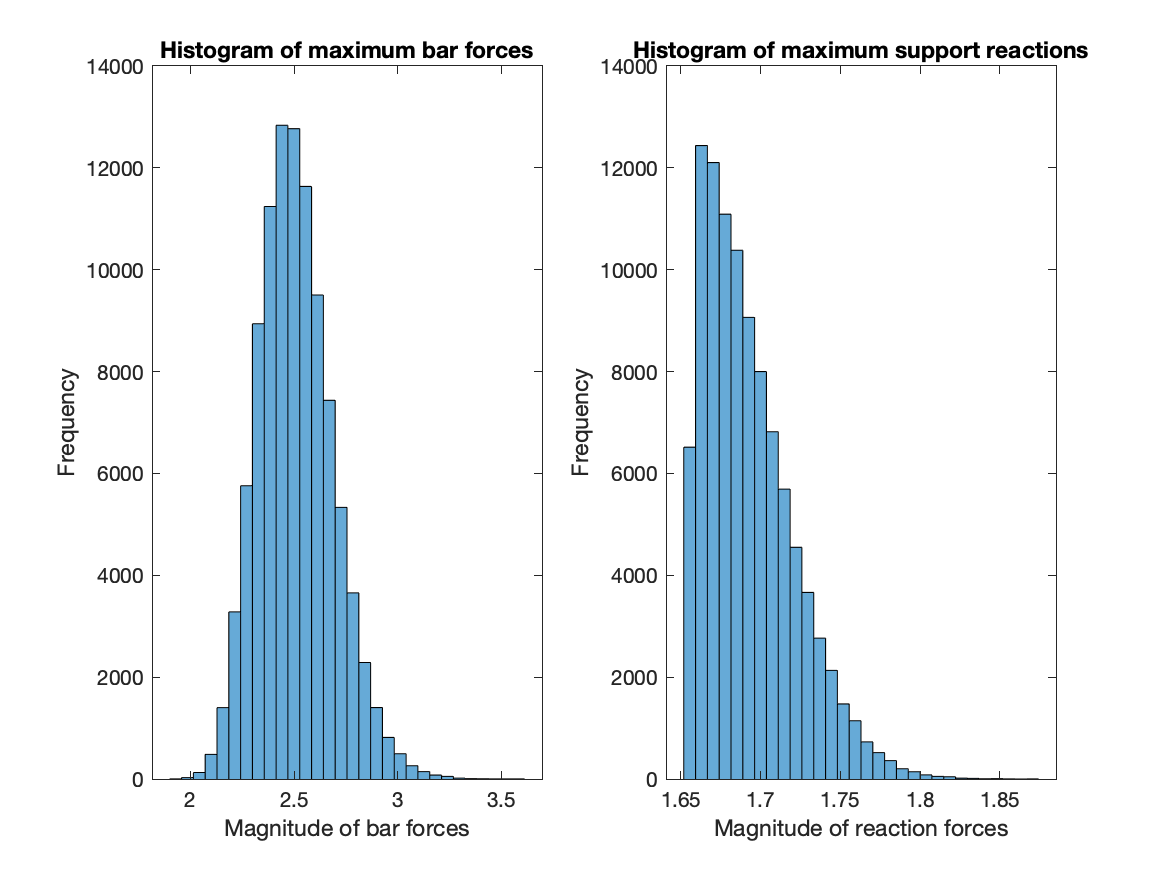
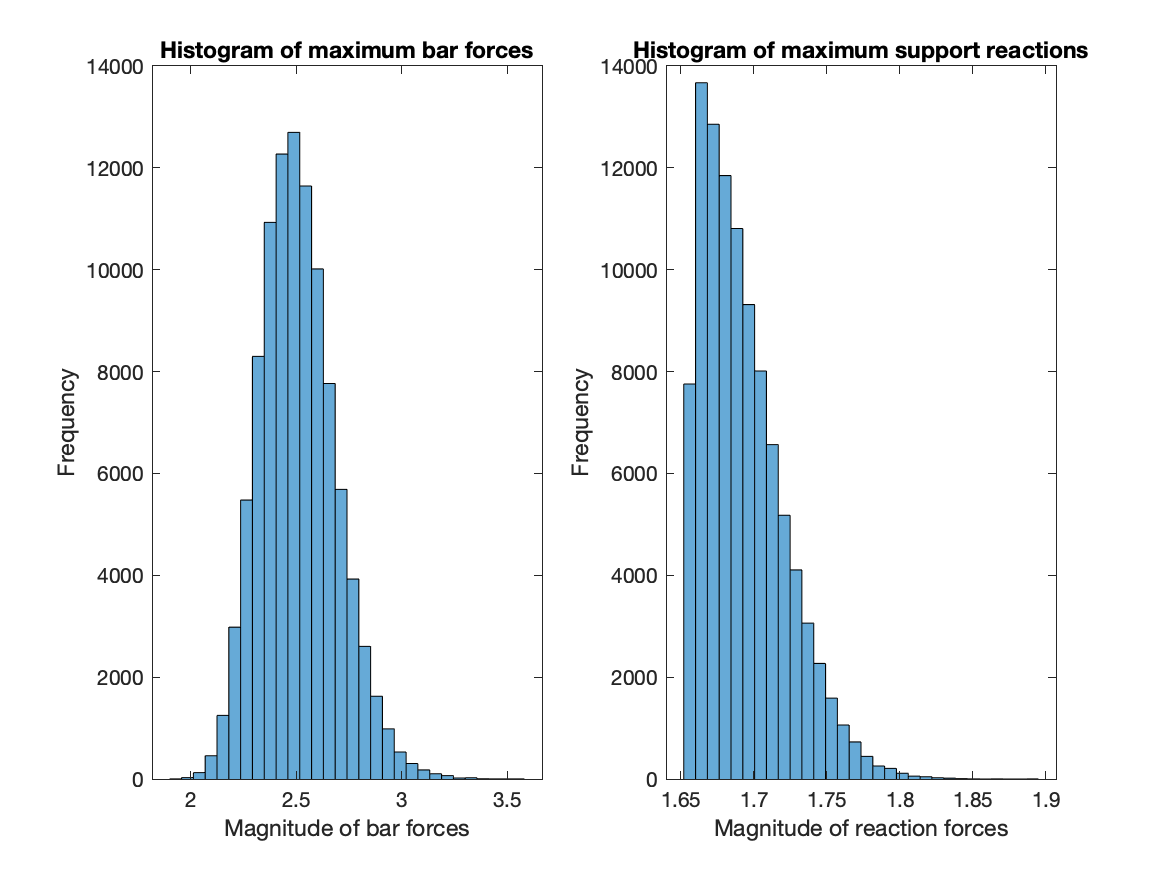
Made README

diff --git a/Lab2/Truss3d/Design1/TrussInNOutDesign1.m b/Lab2/Truss3d/Design1/TrussInNOutDesign1.m
@@ -4,7 +4,7 @@ close all;
 
 inputfile = 'Design1.inp';
 outputfile = 'Design1Out.txt';
-AssumedFail = 0.028/100 ;
+AssumedFail = 0.005/100 ;
 LinDensity = 31.13 / 1000 ; % kg / m
 sleveweight = (5.35/1000)*9.81;
 magnetsmass = 1.7;
@@ -63,7 +63,7 @@ numsamples = 1e5;   % number of samples
 
 ProbFaliure = MonteCarls(inputfile);
 
-Fdsr = icdf('normal',AssumedFail,jstrmean,jstrcov);
+Fdsr = icdf('normal',0.51,jstrmean,0.08);
 
 % any given time your max tensile/compressive strength shouldn't exceed the
 % 

diff --git a/Lab2/Truss3d/Design1/README.md b/Lab2/Truss3d/Design1/README.md
@@ -1,0 +1,19 @@
+# The following folder contains the truss designs we came up with. The folder contains some functions required to operate the main script. All you have to do is to **Run the main script TrussInNOutDesign1.m** which in return will call the other functions/files.
+
+---
+
+
+---
+
+* Everything file is commented. The files/functions are:
+
+`TrussInNOutDesign1.m:` The main script that controls everything. All you have to do is to run it and it will call all other functions. The first lines has the name of the input/output files, thus it can be used with other input files that has the same format to do the exact same thing. All you have to do to use it with another file is to change the name of the input file and maybe the output if you do not want the output to be over-written.
+
+`FAA:`
+
+`writeoutput.m:` function made by Kurt Maute, provided to us by the TA's. The function will write the outputs of 
+
+
+
+---
+> Aerospace Engineering Department, ASEN2001: Statics and structures, Fall 2018, Lab 2.
